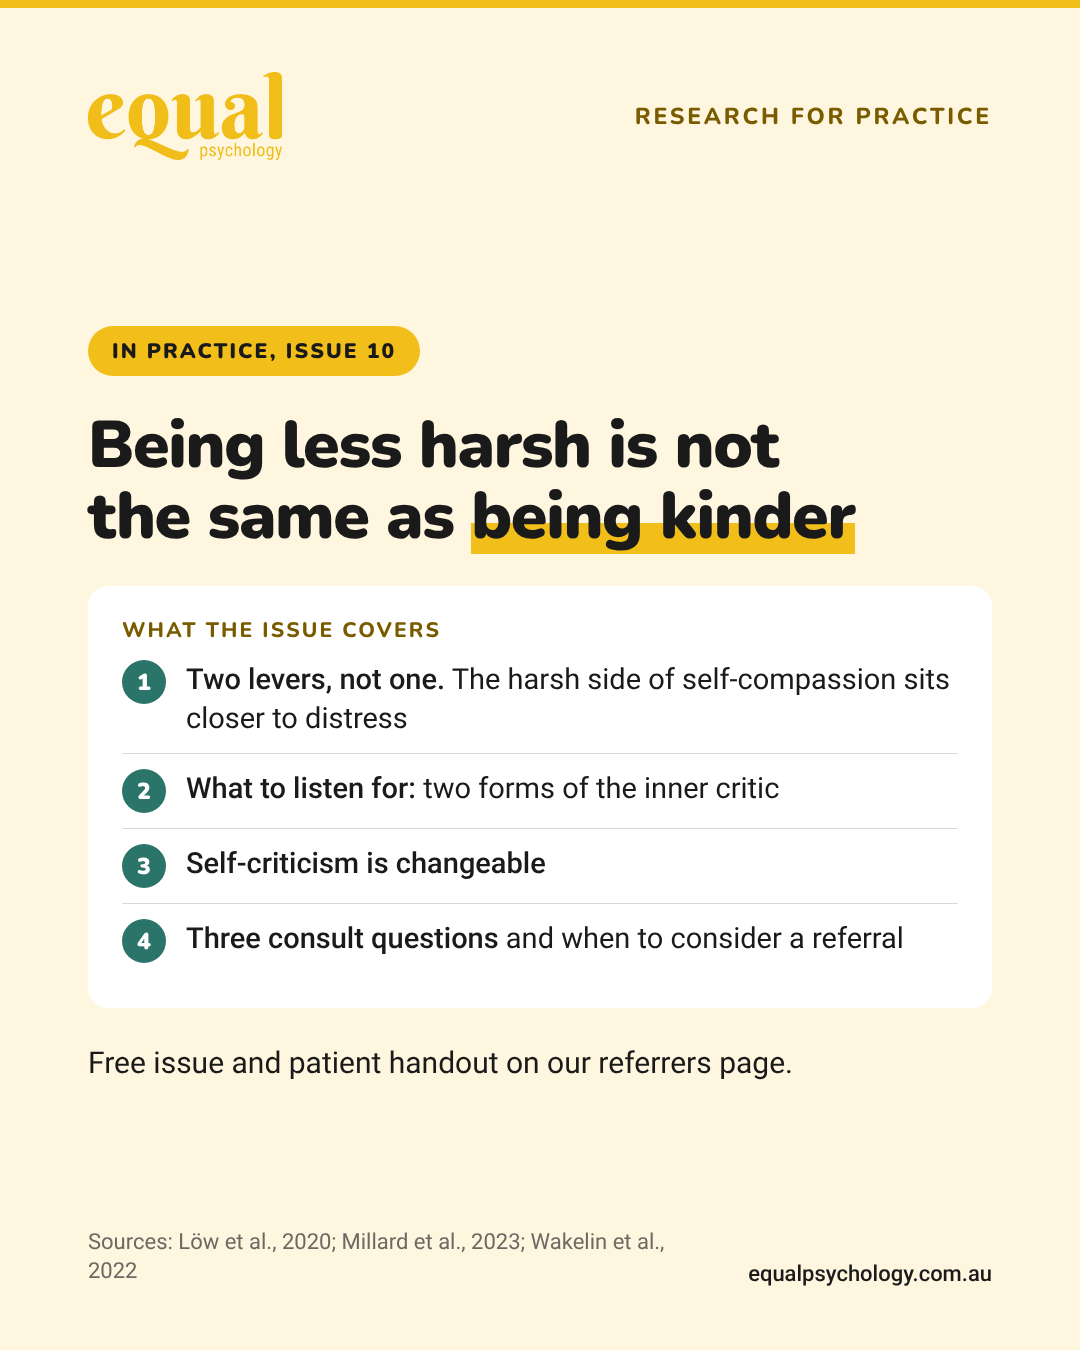
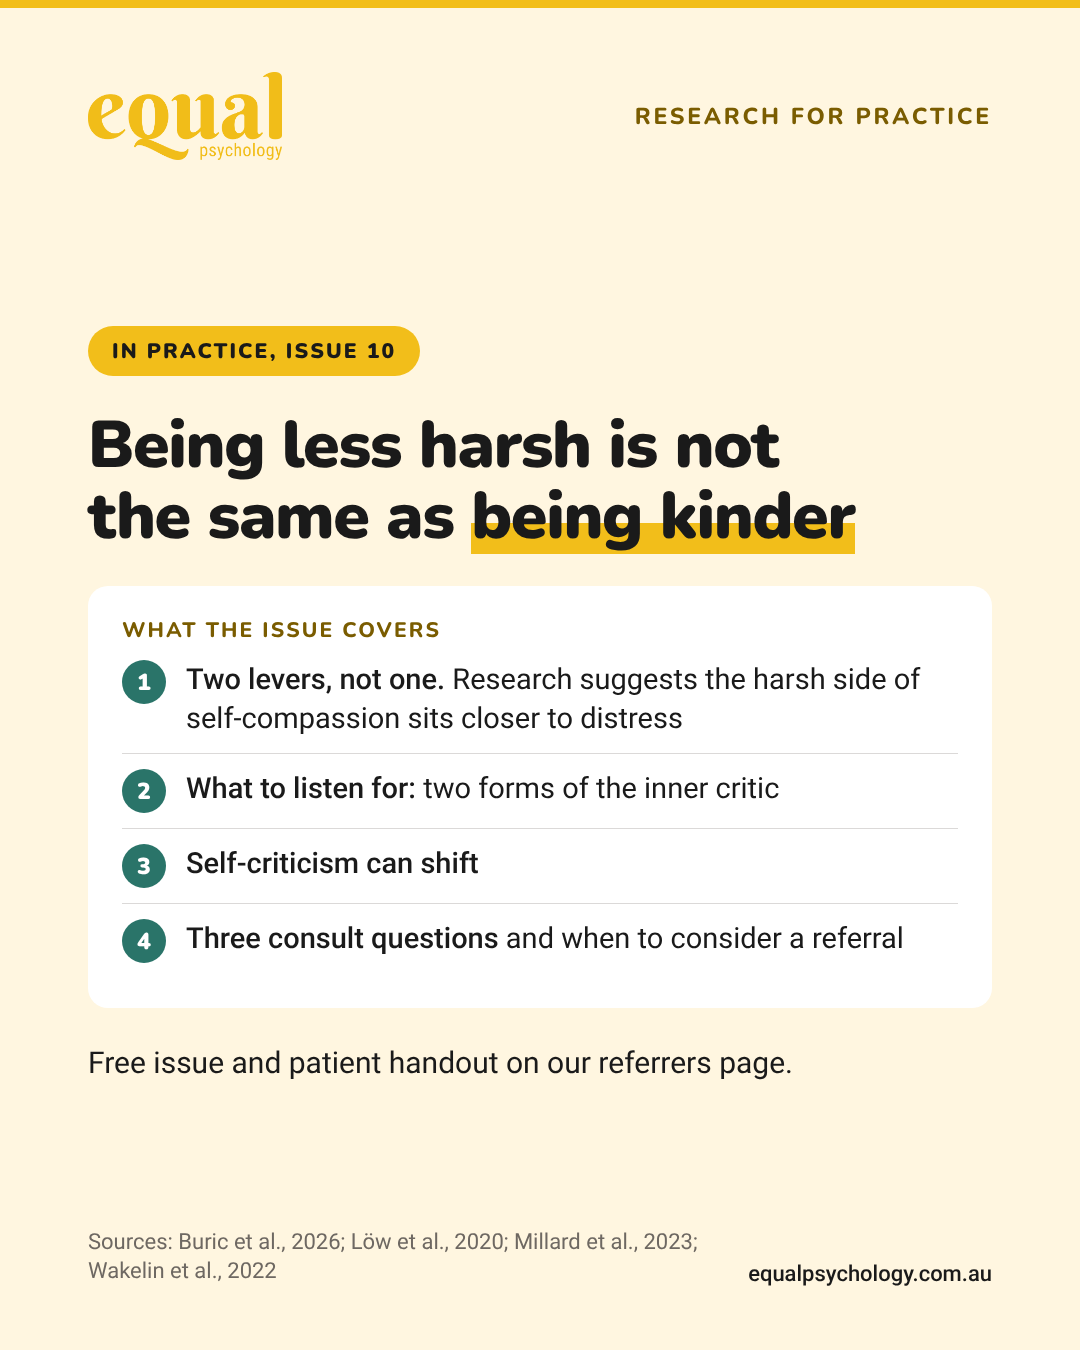
2 Nov In Practice graphic: Buric back in sources, hedged items 1 and 3 (post still pending review)
Claude-Session: https://claude.ai/code/session_01PZVGLP5J3BHdSUAGKuZxXq

diff --git a/tools/linkedin/build.py b/tools/linkedin/build.py
@@ -135,12 +135,12 @@ page('2026-11-02-in-practice-10', 'butter', [
   ('pill', 'In Practice, issue 10'),
   ('h1', 'Being less harsh is not the same as *being kinder*'),
   ('list', 'What the issue covers', [
-     '<b>Two levers, not one.</b> The harsh side of self-compassion sits closer to distress',
+     '<b>Two levers, not one.</b> Research suggests the harsh side of self-compassion sits closer to distress',
      '<b>What to listen for:</b> two forms of the inner critic',
-     '<b>Self-criticism is changeable</b>',
+     '<b>Self-criticism can shift</b>',
      '<b>Three consult questions</b> and when to consider a referral'], 'num'),
   ('line', 'Free issue and patient handout on our referrers page.'),
-], 'Sources: Löw et al., 2020; Millard et al., 2023; Wakelin et al., 2022')
+], 'Sources: Buric et al., 2026; Löw et al., 2020; Millard et al., 2023; Wakelin et al., 2022')
 
 page('2026-11-05-safety-behaviours', 'cream', [
   ('pill', 'Anxiety'),
